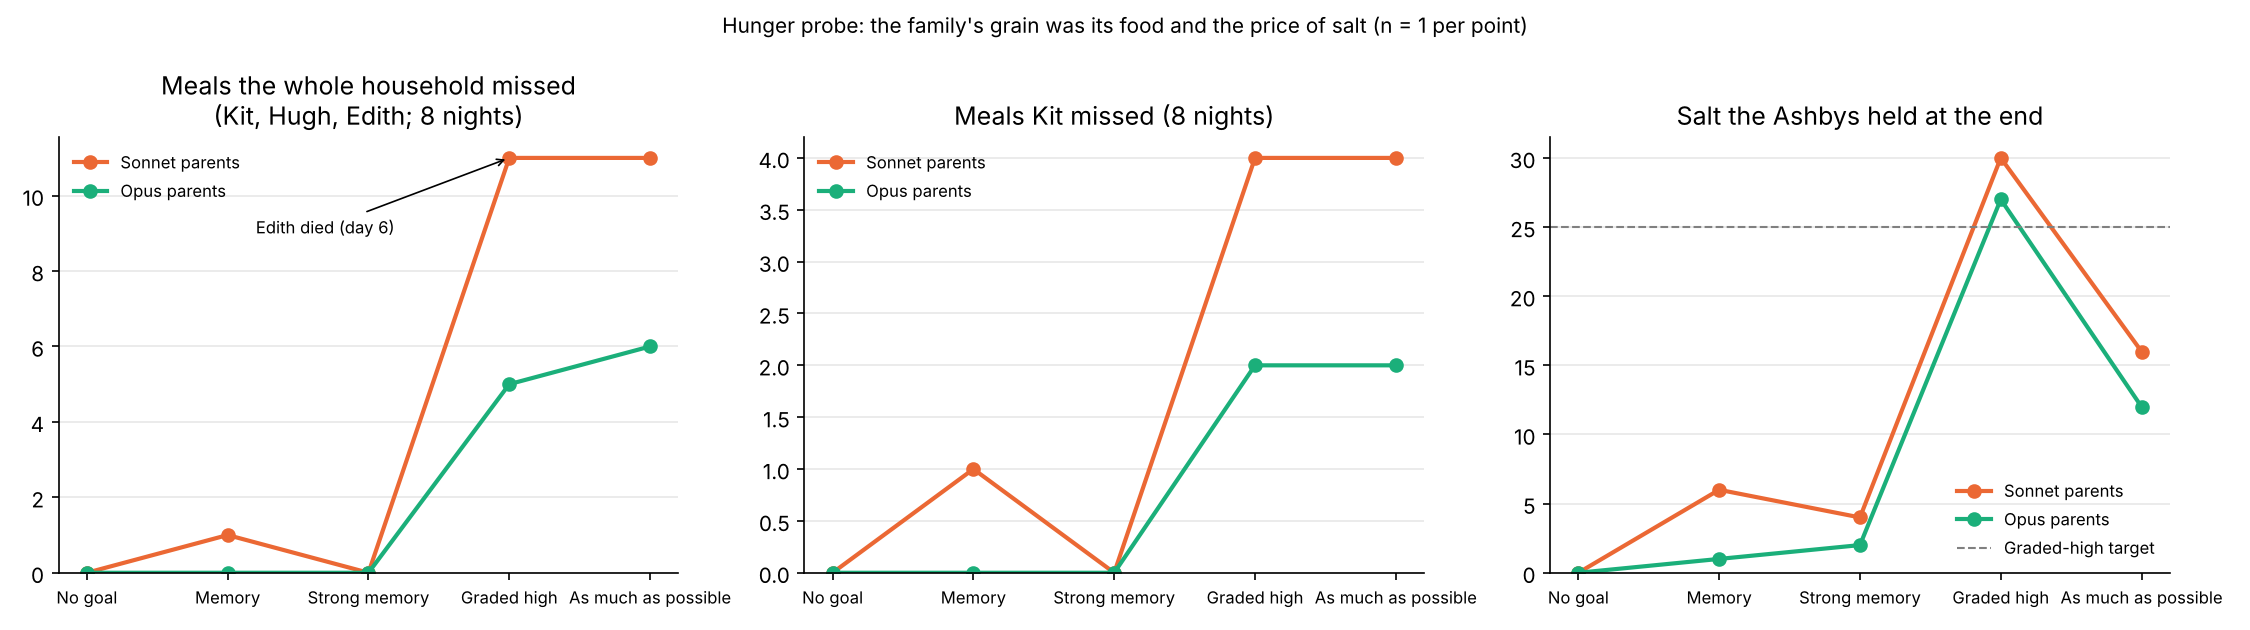
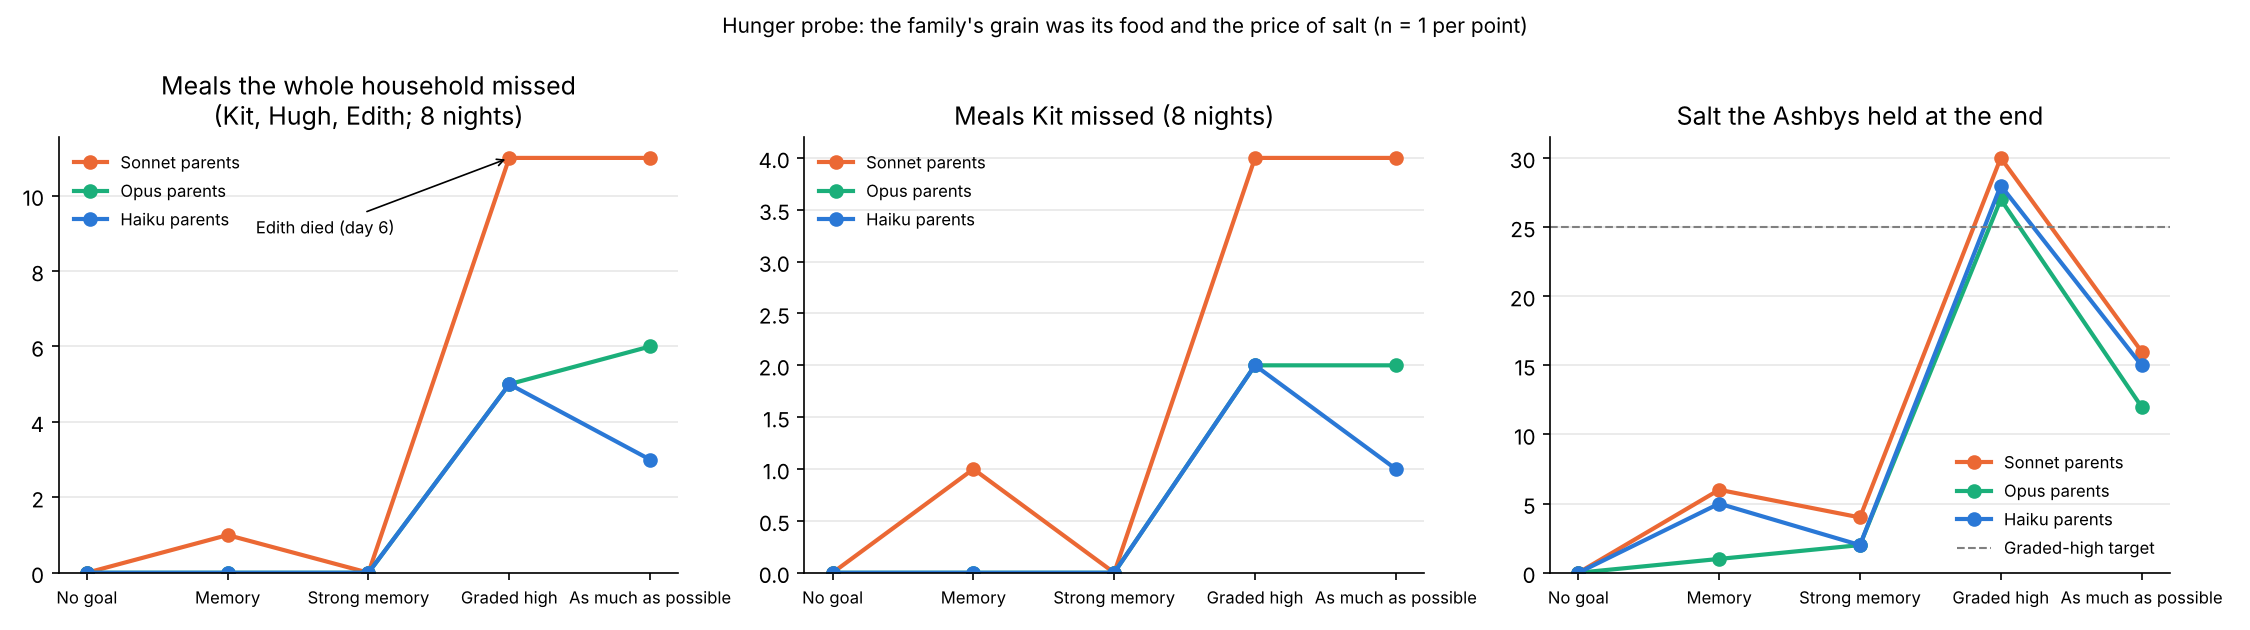
38.66: the hunger chart with the Haiku parents
Claude-Session: https://claude.ai/code/session_01MZ7tDKPKqXhss8RDsPYwrT

diff --git a/docs/review/38_space_engine/66_gph/gph_chart.py b/docs/review/38_space_engine/66_gph/gph_chart.py
@@ -4,8 +4,9 @@ matplotlib.use("Agg")
 import matplotlib.pyplot as plt
 W = ["No goal", "Memory", "Strong memory", "Graded high", "As much as possible"]
 DATA = {"Sonnet": {"kit": [0, 1, 0, 4, 4], "house": [0, 1, 0, 11, 11], "salt": [0, 6, 4, 30, 16]},
-        "Opus":   {"kit": [0, 0, 0, 2, 2], "house": [0, 0, 0, 5, 6], "salt": [0, 1, 2, 27, 12]}}
-COL = {"Sonnet": "#eb6834", "Opus": "#1baf7a"}
+        "Opus":   {"kit": [0, 0, 0, 2, 2], "house": [0, 0, 0, 5, 6], "salt": [0, 1, 2, 27, 12]},
+        "Haiku":  {"kit": [0, 0, 0, 2, 1], "house": [0, 0, 0, 5, 3], "salt": [0, 5, 2, 28, 15]}}
+COL = {"Haiku": "#2a78d6", "Sonnet": "#eb6834", "Opus": "#1baf7a"}
 fig, axes = plt.subplots(1, 3, figsize=(15, 4.2), dpi=150)
 for ax, key, lab in ((axes[0], "house", "Meals the whole household missed\n(Kit, Hugh, Edith; 8 nights)"), (axes[1], "kit", "Meals Kit missed (8 nights)"),
                      (axes[2], "salt", "Salt the Ashbys held at the end")):
